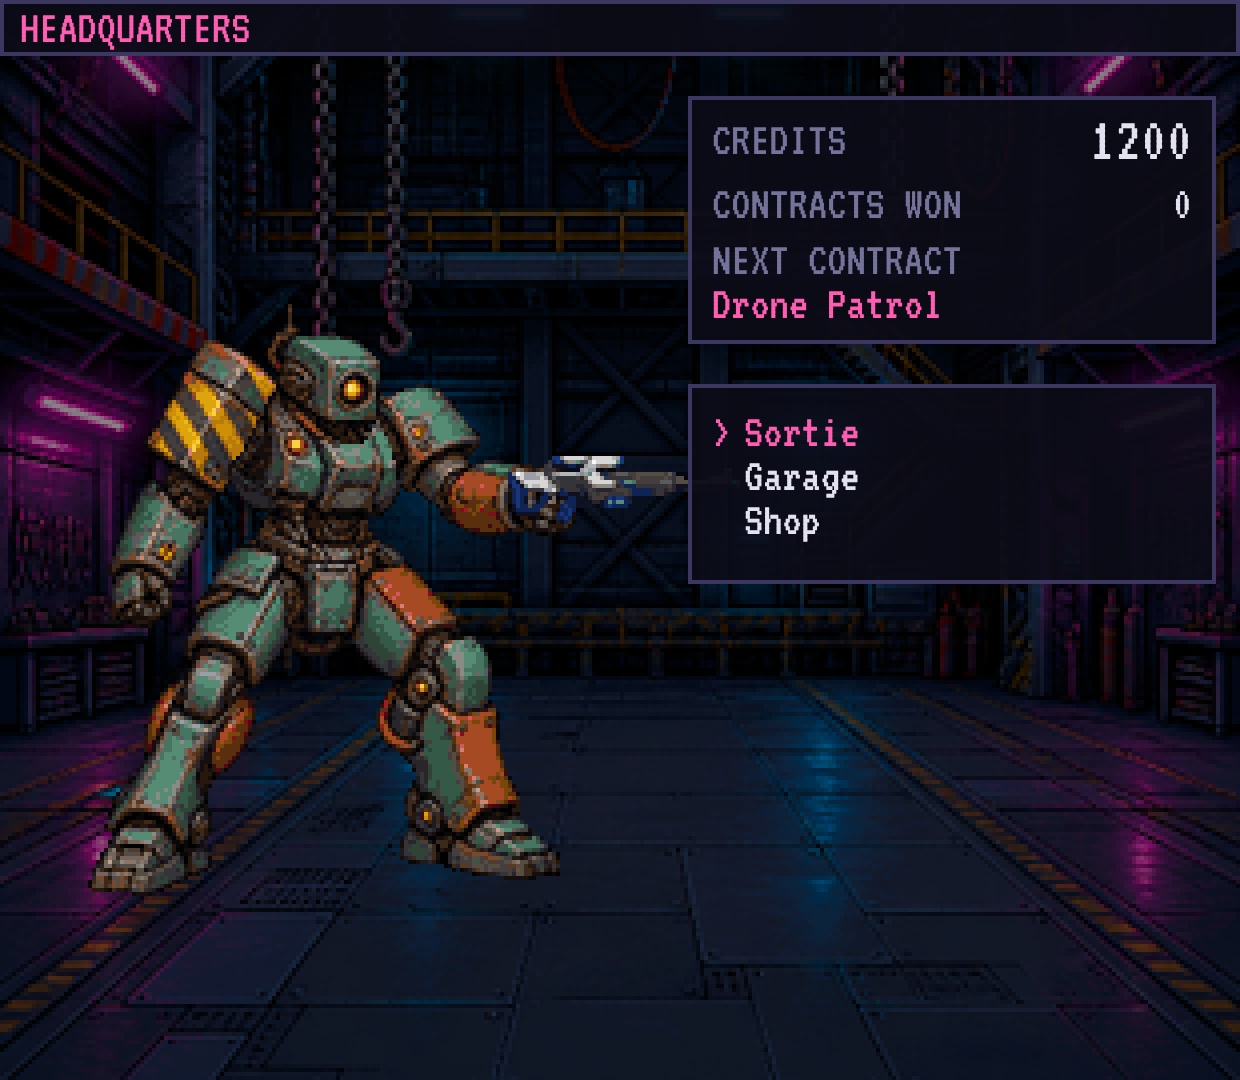
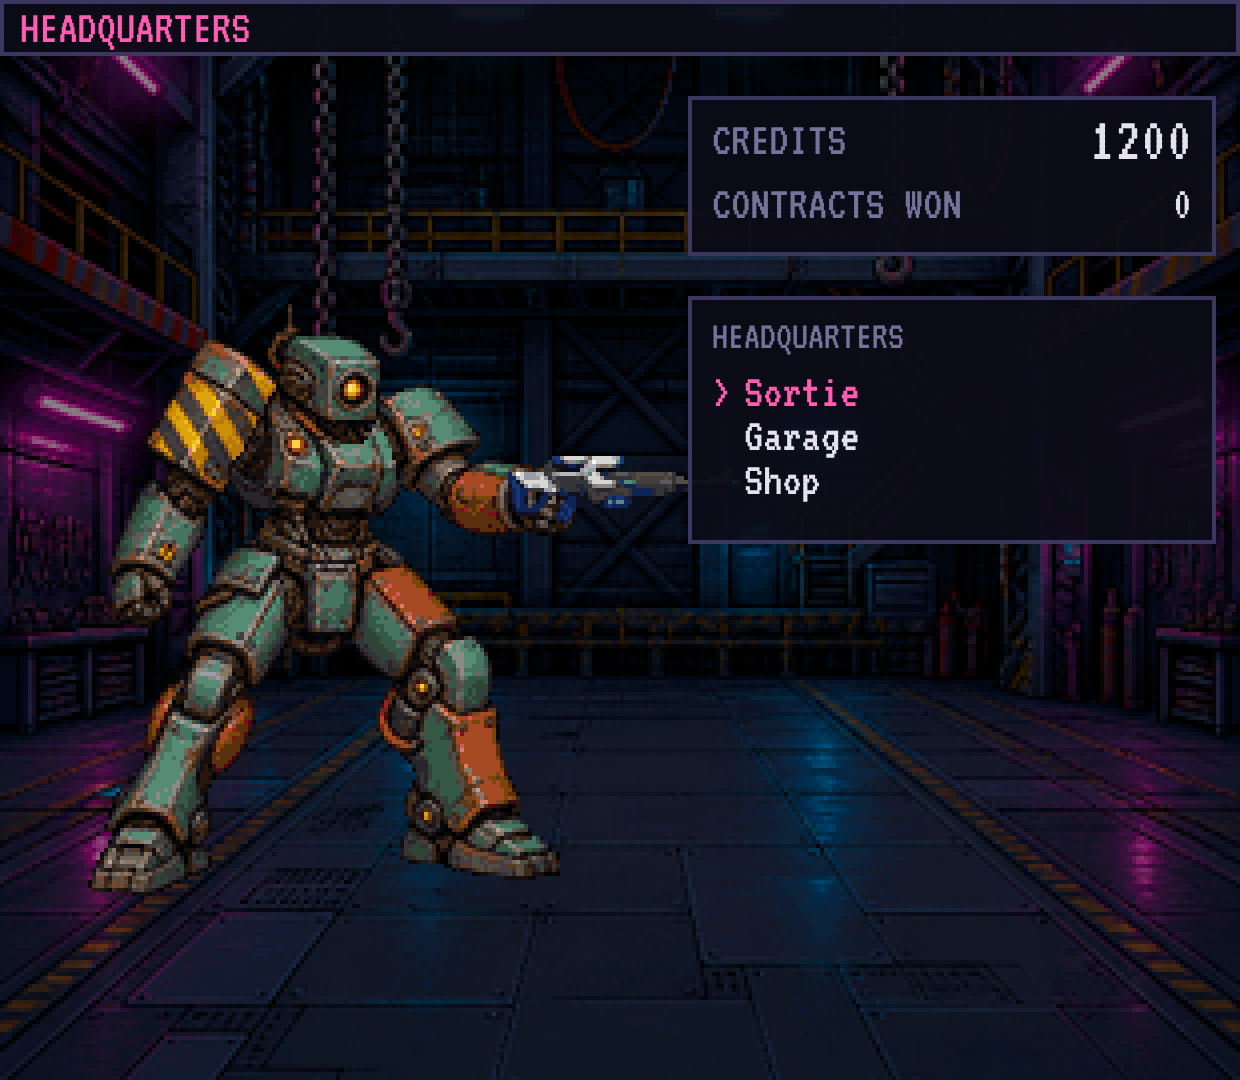
Fix review findings: book settlements at once, add contract choice, refuse unarmed mechs
Claude-Session: https://claude.ai/code/session_01D72L5UjxxzTBcVetS4xsP3

Changed region(s): [[0.5516, 0.2139, 0.9806, 0.55]]

diff --git a/tests/ui/app.test.ts b/tests/ui/app.test.ts
@@ -138,37 +138,112 @@ describe('hub', () => {
   });
 });
 
-describe('battle and settlement', () => {
-  test('a sortie leads through the battle and the settlement back to the hub, saved', () => {
-    const { app, store } = makeApp();
-    press(app, 'confirm');
+describe('contracts', () => {
+  const inHub = (saved?: GameState) => { const made = makeApp(saved); press(made.app, 'confirm'); return made; };
+
+  test('a new pilot is offered only the patrol, with its reward', () => {
+    const { app } = inHub();
     select(app, 'sortie');
-    expect(snap(app)).toMatchObject({ screen: 'battle', battle: { encounter: 'intro' } });
-    finishBattle(app);
-    const won = snap(app).battle!.outcome === 'victory';
-    press(app, 'confirm');
-    expect(snap(app).screen).toBe('settlement');
-    const { net } = snap(app).settlement!;
-    expect(snap(app).settlement!.won).toBe(won);
-    expect(snap(app).credits).toBe(1200);
-    press(app, 'confirm');
-    expect(snap(app)).toMatchObject({ screen: 'hub', credits: 1200 + net, battlesWon: won ? 1 : 0 });
-    expect(JSON.parse(store.data[SAVE_KEY])).toMatchObject({ credits: 1200 + net, battlesWon: won ? 1 : 0 });
+    expect(snap(app).screen).toBe('hub');
+    expect(snap(app).menu.items).toMatchObject([{ id: 'intro', label: 'Drone Patrol', note: '600', enabled: true }]);
   });
 
-  test('the encounter alternates with the number of battles won', () => {
-    const { app } = makeApp({ ...newGame(CATALOG, STARTER_BUILD), battlesWon: 1 });
-    press(app, 'confirm');
+  test('the outpost opens after one win, and the patrol stays available', () => {
+    const { app } = inHub({ ...newGame(CATALOG, STARTER_BUILD), battlesWon: 1 });
     select(app, 'sortie');
-    expect(snap(app).battle!.encounter).toBe('outpost');
+    expect(ids(app)).toEqual(['intro', 'outpost']);
+    select(app, 'outpost');
+    expect(snap(app)).toMatchObject({ screen: 'battle', battle: { encounter: 'outpost' } });
+  });
+
+  test('cancel returns from the contract list to the hub menu', () => {
+    const { app } = inHub();
+    select(app, 'sortie');
+    press(app, 'cancel');
+    expect(ids(app)).toEqual(['sortie', 'garage', 'shop']);
+  });
+
+  test('a pilot in debt can still take a contract', () => {
+    const { app } = inHub({ ...newGame(CATALOG, STARTER_BUILD), credits: -500 });
+    select(app, 'sortie');
+    select(app, 'intro');
+    expect(snap(app).screen).toBe('battle');
+  });
+
+  test('a mech without any weapon cannot deploy', () => {
+    const unarmed = equip(newGame(CATALOG, STARTER_BUILD), 'rightHand', null, CATALOG);
+    const { app } = inHub(unarmed);
+    expect(snap(app).menu.items[0]).toMatchObject({ id: 'sortie', enabled: false, note: 'No weapon' });
+  });
+});
+
+describe('battle and settlement', () => {
+  /** Into the hub, then into the named contract. */
+  const sortie = (app: App, encounter: string) => { press(app, 'confirm'); select(app, 'sortie'); select(app, encounter); };
+
+  test('a won patrol is booked and saved the moment the settlement appears', () => {
+    const { app, store } = makeApp();
+    sortie(app, 'intro');
+    finishBattle(app);
+    // The starter build wins the patrol with this seed; if content changes that, this test must be revisited.
+    expect(snap(app).battle!.outcome).toBe('victory');
+    press(app, 'confirm');
+    expect(snap(app).screen).toBe('settlement');
+    const { net, won } = snap(app).settlement!;
+    expect(won).toBe(true);
+    expect(net).toBeGreaterThan(0);
+    expect(snap(app)).toMatchObject({ credits: 1200 + net, battlesWon: 1 });
+    expect(JSON.parse(store.data[SAVE_KEY])).toMatchObject({ credits: 1200 + net, battlesWon: 1 });
+
+    // Closing the game on the settlement screen must not lose the reward.
+    const reopened = new App({ catalog: CATALOG, save: new SaveFile(store, CATALOG), sprites, fast: true, seed: 1 });
+    press(reopened, 'confirm');
+    expect(snap(reopened)).toMatchObject({ screen: 'hub', credits: 1200 + net, battlesWon: 1 });
+
+    press(app, 'confirm');
+    expect(snap(app)).toMatchObject({ screen: 'hub', credits: 1200 + net, battlesWon: 1 });
+  });
+
+  test('a lost contract charges its costs, pays nothing and does not count as a win', () => {
+    const { app, store } = makeApp({ ...newGame(CATALOG, STARTER_BUILD), battlesWon: 1 });
+    sortie(app, 'outpost');
+    finishBattle(app);
+    // The starter build alone does not survive the outpost.
+    expect(snap(app).battle!.outcome).toBe('defeat');
+    press(app, 'confirm');
+    const { net, won } = snap(app).settlement!;
+    expect(won).toBe(false);
+    expect(net).toBeLessThan(0);
+    press(app, 'confirm');
+    expect(snap(app)).toMatchObject({ screen: 'hub', credits: 1200 + net, battlesWon: 1 });
+    expect(JSON.parse(store.data[SAVE_KEY]).credits).toBe(1200 + net);
+  });
+
+  test('pressing confirm again and again books the settlement only once', () => {
+    const { app } = makeApp();
+    sortie(app, 'intro');
+    finishBattle(app);
+    press(app, 'confirm');
+    const { net } = snap(app).settlement!;
+    press(app, 'confirm', 'confirm', 'cancel');
+    expect(snap(app).credits).toBe(1200 + net);
   });
 
   test('other keys on the result screen do not skip the settlement', () => {
     const { app } = makeApp();
-    press(app, 'confirm');
-    select(app, 'sortie');
+    sortie(app, 'intro');
     finishBattle(app);
     press(app, 'cancel', 'down', 'next');
+    expect(snap(app).screen).toBe('battle');
+  });
+
+  test('a device that refuses to save is reported, and play goes on', () => {
+    const store: KeyValueStore = { getItem: () => null, setItem: () => { throw new Error('quota'); }, removeItem() {} };
+    const app = new App({ catalog: CATALOG, save: new SaveFile(store, CATALOG), sprites, fast: true, seed: 1 });
+    press(app, 'confirm');
+    expect(app.snapshot()).toMatchObject({ screen: 'hub', saveFailed: true, message: 'Could not save: storage is full or blocked' });
+    select(app, 'sortie');
+    select(app, 'intro');
     expect(snap(app).screen).toBe('battle');
   });
 });
@@ -214,6 +289,7 @@ describe('shop', () => {
     select(app, 'wpn-arc-pistol');
     press(app, 'cancel');
     select(app, 'sortie');
+    select(app, 'intro');
     expect(snap(app).screen).toBe('battle');
     expect((app.snapshot() as { build: Record<string, string> }).build.leftHand).toBe('wpn-arc-pistol');
   });

diff --git a/src/ui/app.ts b/src/ui/app.ts
@@ -3,7 +3,7 @@ import { validatePlayerBuild } from '../core/build';
 import { applySettlement, settle, type Settlement } from '../core/economy';
 import { newGame, type GameState } from '../core/game';
 import type { BuildError, Catalog } from '../core/types';
-import { ENCOUNTERS, ENCOUNTER_REWARD, ENEMIES } from '../content/enemies';
+import { ENCOUNTERS, ENCOUNTER_REWARD, ENCOUNTER_UNLOCK, ENEMIES } from '../content/enemies';
 import { STARTER_BUILD } from '../content/parts';
 import type { Sfx } from '../platform/audio';
 import type { InputAction } from '../platform/input';
@@ -122,37 +122,41 @@ export class App {
     return this.game ? validatePlayerBuild(this.game.build, this.deps.catalog) : [];
   }
 
-  /** The encounter the next sortie leads to. */
-  nextEncounter(): string {
-    const names = Object.keys(ENCOUNTERS);
-    return names[(this.game?.battlesWon ?? 0) % names.length];
+  /** The contracts on offer now. The first is always available, so a pilot can never run out of work. */
+  availableEncounters(): { id: string; reward: number }[] {
+    const won = this.game?.battlesWon ?? 0;
+    return Object.keys(ENCOUNTERS)
+      .filter((id) => won >= (ENCOUNTER_UNLOCK[id] ?? 0))
+      .map((id) => ({ id, reward: ENCOUNTER_REWARD[id] ?? 0 }));
+  }
+
+  /** Starts a contract, unless the build may not deploy or the contract is not on offer. */
+  startBattle(encounter: string): void {
+    if (this.buildErrors().length > 0 || !this.availableEncounters().some((e) => e.id === encounter)) return;
+    this.seed = (this.seed + 1) % 2147483647;
+    this.current = new BattleHost(this, encounter, this.seed);
+    this.name = 'battle';
   }
 
   go(name: ScreenName): void {
     switch (name) {
       case 'title': this.current = new TitleScreen(this); break;
       case 'hub': this.current = new HubScreen(this); break;
-      case 'battle':
-        if (this.buildErrors().length > 0) return;
-        this.seed = (this.seed + 1) % 2147483647;
-        this.current = new BattleHost(this, this.nextEncounter(), this.seed);
-        break;
       case 'garage': this.current = new GarageScreen(this); break;
       case 'shop': this.current = new ShopScreen(this); break;
-      default: return; // the settlement is opened by the battle that leads to it
+      default: return; // battles start through startBattle, and the settlement follows a battle
     }
     this.name = name;
   }
 
+  /**
+   * Books a settlement and shows it. It is saved before the screen appears, so closing the game
+   * there can neither lose a reward nor dodge a bill.
+   */
   showSettlement(settlement: Settlement): void {
+    this.commit(applySettlement(this.game!, settlement));
     this.current = new SettlementScreen(this, settlement);
     this.name = 'settlement';
-  }
-
-  /** Books a settlement and returns to the hub. */
-  finishSettlement(settlement: Settlement): void {
-    this.commit(applySettlement(this.game!, settlement));
-    this.go('hub');
   }
 
   update(dtMs: number): void { this.current.update(dtMs); }

diff --git a/src/ui/hubScreen.ts b/src/ui/hubScreen.ts
@@ -8,18 +8,25 @@ import { COLORS, drawList, drawPanel, drawText } from './widgets';
 
 const H = STRINGS.hub;
 
-/** The place between battles: shows the money and leads to the sortie, the garage and the shop. */
+/** The place between battles: shows the money and leads to the contracts, the garage and the shop. */
 export class HubScreen implements Screen {
-  private list: MenuList;
+  private main: MenuList;
+  /** The contract list, while it is open. */
+  private contracts: MenuList | null = null;
   private clock = 0;
 
   constructor(private app: App) {
     const errors = app.buildErrors();
-    this.list = new MenuList([
+    this.main = new MenuList([
       { id: 'sortie', label: H.sortie, enabled: errors.length === 0, note: errors[0] ? STRINGS.buildErrors[errors[0]] : undefined },
       { id: 'garage', label: H.garage, enabled: true },
       { id: 'shop', label: H.shop, enabled: true },
+      // With a build that may not deploy the cursor starts on the garage, where that is fixed.
     ], errors.length === 0 ? 0 : 1);
+  }
+
+  private get list(): MenuList {
+    return this.contracts ?? this.main;
   }
 
   update(dtMs: number): void {
@@ -29,11 +36,17 @@ export class HubScreen implements Screen {
   onInput(action: InputAction): void {
     if (action === 'up') this.list.move(-1);
     else if (action === 'down') this.list.move(1);
+    else if (action === 'cancel') this.contracts = null;
     else if (action === 'confirm' && this.list.selected?.enabled) {
       const id = this.list.selected.id;
-      if (id === 'sortie') this.app.go('battle');
+      if (this.contracts) this.app.startBattle(id);
       else if (id === 'garage') this.app.go('garage');
       else if (id === 'shop') this.app.go('shop');
+      else if (id === 'sortie') {
+        this.contracts = new MenuList(this.app.availableEncounters().map((e) => ({
+          id: e.id, label: STRINGS.encounters[e.id] ?? e.id, enabled: true, note: String(e.reward),
+        })));
+      }
     }
   }
 
@@ -57,15 +70,14 @@ export class HubScreen implements Screen {
 
     const x = 172;
     const w = LOGICAL_W - x - 6;
-    drawPanel(ctx, x, 24, w, 62);
+    drawPanel(ctx, x, 24, w, 40);
     drawText(ctx, H.credits, x + 6, 29, { color: COLORS.dim });
     drawText(ctx, String(game.credits), x + w - 6, 27, { size: 16, align: 'right', color: game.credits < 0 ? COLORS.danger : COLORS.text });
     drawText(ctx, H.battlesWon, x + 6, 45, { color: COLORS.dim });
     drawText(ctx, String(game.battlesWon), x + w - 6, 45, { align: 'right' });
-    drawText(ctx, H.next, x + 6, 59, { color: COLORS.dim });
-    drawText(ctx, STRINGS.encounters[this.app.nextEncounter()] ?? this.app.nextEncounter(), x + 6, 70, { color: COLORS.accent });
 
-    drawPanel(ctx, x, 96, w, 50);
-    drawList(ctx, this.list, x + 6, 102, w - 14, 3);
+    drawPanel(ctx, x, 74, w, 62);
+    drawText(ctx, this.contracts ? `${H.contracts} - ${H.reward}` : H.heading, x + 6, 79, { color: COLORS.dim, size: 10 });
+    drawList(ctx, this.list, x + 6, 92, w - 14, 3);
   }
 }

diff --git a/src/ui/settlementScreen.ts b/src/ui/settlementScreen.ts
@@ -14,7 +14,8 @@ export class SettlementScreen implements Screen {
   update(): void {}
 
   onInput(action: InputAction): void {
-    if (action === 'confirm') this.app.finishSettlement(this.settlement);
+    // The settlement is already booked; this screen only shows it.
+    if (action === 'confirm') this.app.go('hub');
   }
 
   view(): ScreenView {
@@ -56,7 +57,7 @@ export class SettlementScreen implements Screen {
     ctx.fillRect(x + 10, 180, w - 20, 1);
     drawText(ctx, S.net, x + 10, 186, { size: 16 });
     drawText(ctx, s.net > 0 ? `+${s.net}` : String(s.net), right, 186, { size: 16, align: 'right', color: s.net >= 0 ? COLORS.armor : COLORS.danger });
-    const balance = this.app.game!.credits + s.net;
+    const balance = this.app.game!.credits; // already includes this settlement
     drawText(ctx, S.balance, x + 10, 206, { color: COLORS.dim });
     drawText(ctx, String(balance), right, 206, { align: 'right', color: balance < 0 ? COLORS.danger : COLORS.text });
     drawText(ctx, S.continue, LOGICAL_W / 2, 230, { align: 'center', color: COLORS.dim });

diff --git a/tests/core/economy.test.ts b/tests/core/economy.test.ts
@@ -25,8 +25,12 @@ test('ammunition is charged per shot fired', () => {
 });
 
 test('weapons without ammunition cost nothing to fire', () => {
-  const s = settle(finished('victory', (b) => { b.units[0].fired = ['leftHand']; }), 600, CATALOG);
-  expect(s.ammoCost).toBe(0);
+  // The Arc Pistol has no ammunition count; give the rifle a full magazine so only the pistol could matter.
+  const battle = finished('victory');
+  expect(battle.units[0].ammo.leftHand).toBeNull();
+  expect(settle(battle, 600, CATALOG).ammoCost).toBe(0);
+  // The same battle with rifle shots fired does cost, so the zero above is not an accident.
+  expect(settle(finished('victory', (b) => { b.units[0].ammo.rightHand = 29; }), 600, CATALOG).ammoCost).toBe(15);
 });
 
 test('repairs cost half the part price in proportion to the armour lost', () => {

diff --git a/e2e/loop.spec.ts b/e2e/loop.spec.ts
@@ -36,6 +36,8 @@ test('buy a weapon, fit it, fight, get paid, and find it all saved after a reloa
 
   // Battle and settlement.
   await choose(page, 'sortie');
+  await page.screenshot({ path: shot('contracts') });
+  await choose(page, 'intro');
   await waitForPhase(page, 'action');
   await page.screenshot({ path: shot('battle-action') });
   const end = await finishBattle(page);
@@ -43,6 +45,8 @@ test('buy a weapon, fit it, fight, get paid, and find it all saved after a reloa
   await press(page, 'Enter');
   await waitForScreen(page, 'settlement');
   const { net, won } = (await snap(page)).settlement!;
+  // Booked the moment it is shown.
+  expect((await snap(page)).credits).toBe(600 + net);
   await page.screenshot({ path: shot('settlement') });
   await press(page, 'Enter');
   await waitForScreen(page, 'hub');

diff --git a/src/content/strings.ts b/src/content/strings.ts
@@ -29,11 +29,11 @@ export const STRINGS = {
   },
   hub: {
     heading: 'HEADQUARTERS', sortie: 'Sortie', garage: 'Garage', shop: 'Shop',
-    credits: 'CREDITS', battlesWon: 'CONTRACTS WON', next: 'NEXT CONTRACT',
+    credits: 'CREDITS', battlesWon: 'CONTRACTS WON', contracts: 'CONTRACTS', reward: 'pays',
   },
   buildErrors: {
     overweight: 'Overweight', insufficientEnergy: 'Not enough energy', missingSlot: 'Missing part',
-    wrongMount: 'Wrong mount', unknownPart: 'Unknown part',
+    wrongMount: 'Wrong mount', unknownPart: 'Unknown part', noWeapon: 'No weapon',
   },
   encounters: { intro: 'Drone Patrol', outpost: 'Outpost Assault' } as Record<string, string>,
   settlement: {

diff --git a/src/core/build.ts b/src/core/build.ts
@@ -66,6 +66,8 @@ export function validatePlayerBuild(build: Build, catalog: Catalog): BuildError[
   const stats = computeBuildStats(build, catalog);
   if (stats.weight > stats.capacity) errors.add('overweight');
   const costs = WEAPON_SLOTS.flatMap((slot) => weaponIn(build, slot, catalog)?.energy ?? []);
+  // An unarmed mech can only lose: it may not leave the garage.
+  if (costs.length === 0) errors.add('noWeapon');
   if (costs.length > 0 && stats.turnEnergy < Math.min(...costs)) errors.add('insufficientEnergy');
   return [...errors];
 }

diff --git a/tests/core/build.test.ts b/tests/core/build.test.ts
@@ -61,3 +61,8 @@ test('an unknown part id is reported', () => {
 test('a part of the wrong kind for its slot is reported as unknown', () => {
   expect(validatePlayerBuild({ ...STARTER_BUILD, head: 'core-hauler' }, CATALOG)).toEqual(['unknownPart']);
 });
+
+test('a player build needs at least one weapon', () => {
+  const { rightHand: _weapon, ...unarmed } = STARTER_BUILD;
+  expect(validatePlayerBuild(unarmed, CATALOG)).toEqual(['noWeapon']);
+});

diff --git a/src/content/enemies.ts b/src/content/enemies.ts
@@ -17,5 +17,8 @@ export const ENCOUNTERS: Record<string, string[]> = {
   outpost: ['gun-turret', 'recon-drone'],
 };
 
+/** How many contracts must be won before each encounter is offered. The patrol is always available. */
+export const ENCOUNTER_UNLOCK: Record<string, number> = { intro: 0, outpost: 1 };
+
 /** Credits paid for winning each encounter. */
 export const ENCOUNTER_REWARD: Record<string, number> = { intro: 600, outpost: 1100 };

diff --git a/src/core/types.ts b/src/core/types.ts
@@ -84,7 +84,7 @@ export interface BuildStats {
   turnEnergy: number;
 }
 
-export type BuildError = 'missingSlot' | 'overweight' | 'insufficientEnergy' | 'wrongMount' | 'unknownPart';
+export type BuildError = 'missingSlot' | 'overweight' | 'insufficientEnergy' | 'wrongMount' | 'unknownPart' | 'noWeapon';
 export type AiProfile = 'gunner' | 'skirmisher' | 'bruiser';
 
 export interface EnemyDef {

diff --git a/e2e/helpers.ts b/e2e/helpers.ts
@@ -48,6 +48,7 @@ export async function startBattle(page: Page, url?: string): Promise<void> {
   await choose(page, 'new');
   await waitForScreen(page, 'hub');
   await choose(page, 'sortie');
+  await choose(page, 'intro');
   await waitForPhase(page, 'action');
 }
 
